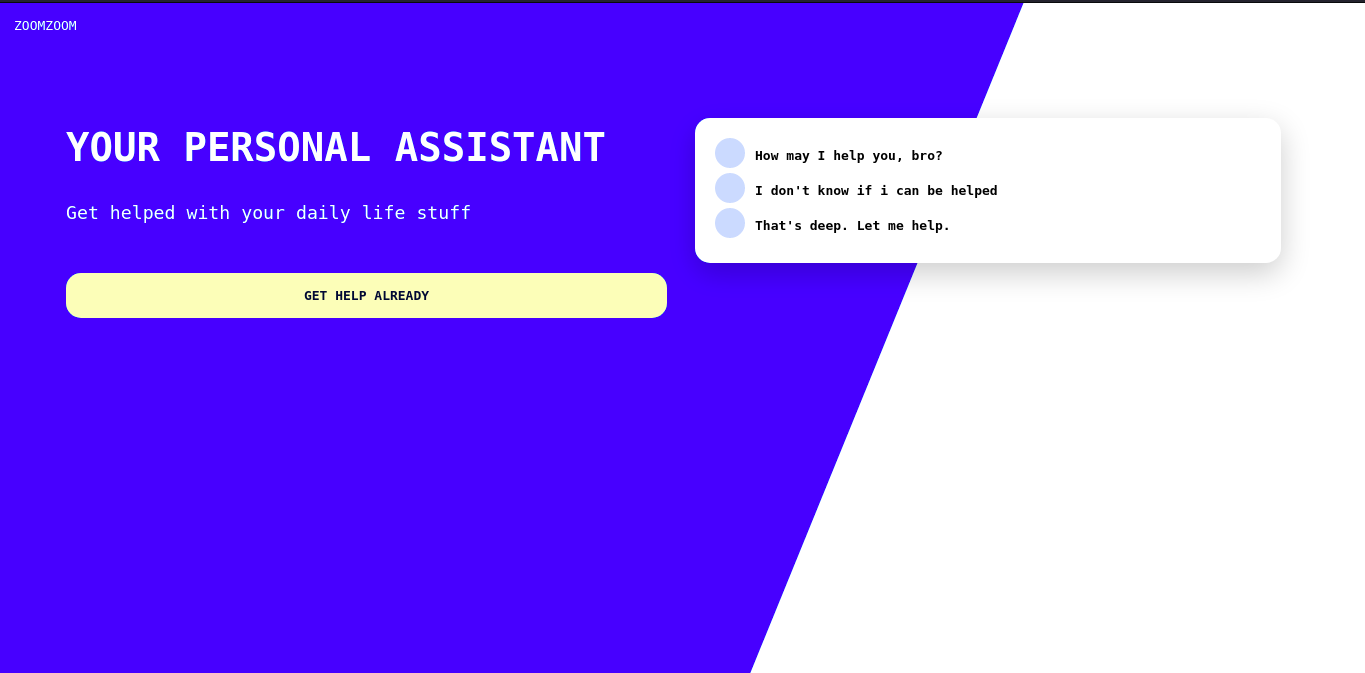
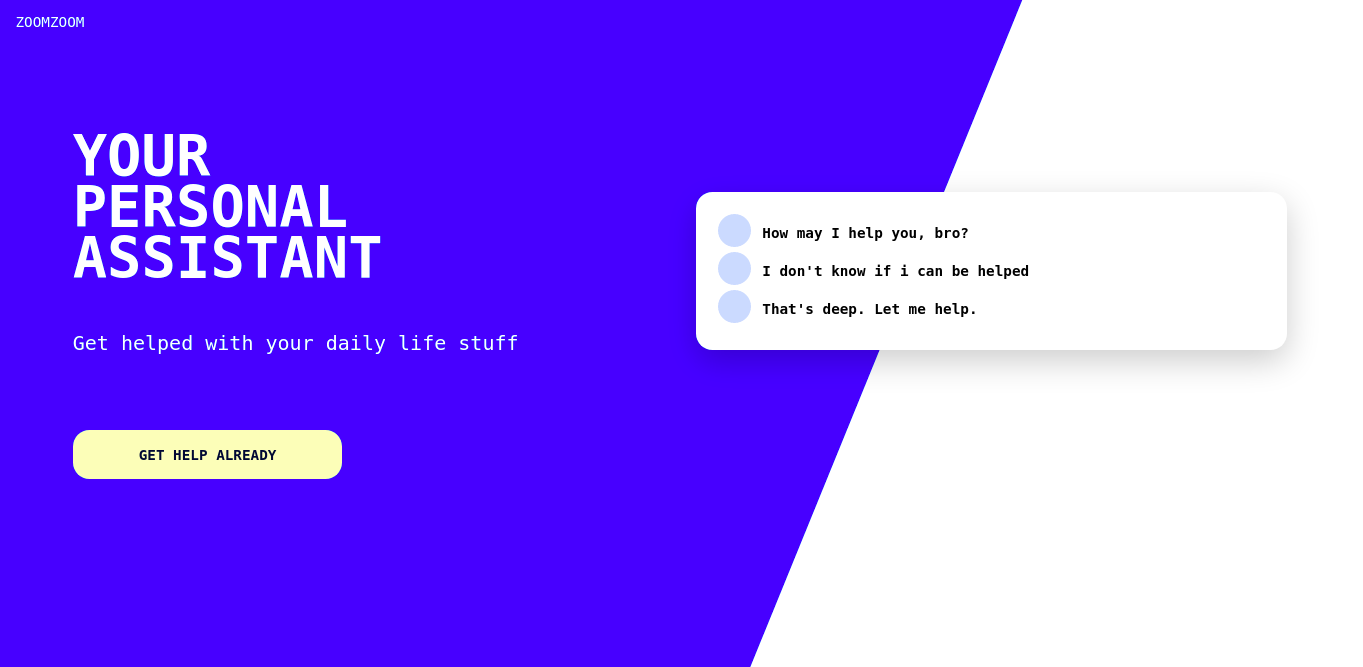
Update

diff --git a/css/main.css b/css/main.css
@@ -112,6 +112,14 @@ main section#primary h1 {
   text-transform: uppercase;
 }
 
+@media (min-width: 840px) {
+  main section#primary h1 {
+    width: 30%;
+    font-size: 4em;
+    line-height: .9em;
+  }
+}
+
 main section#primary p {
   font-size: 1.4em;
 }
@@ -127,5 +135,12 @@ main section#primary a {
   text-align: center;
   margin: 50px auto 0 auto;
   padding: 15px;
+}
+
+@media (min-width: 840px) {
+  main section#primary a {
+    display: inline-block;
+    padding: 15px 60px;
+  }
 }
 /*# sourceMappingURL=main.css.map */

diff --git a/css/main.scss b/css/main.scss
@@ -115,6 +115,12 @@ main {
       font-size: 3em;
       margin-top: 10px;
       text-transform: uppercase;
+
+      @include desktop{
+          width: 30%;
+          font-size: 4em;
+          line-height: .9em;
+      }
     }
 
     p {
@@ -132,6 +138,11 @@ main {
       text-align: center;
       margin: 50px auto 0 auto;
       padding: $padding;
+      
+      @include desktop{
+          display: inline-block;
+          padding: $padding $padding * 4;
+      }
     }
   }
 }
